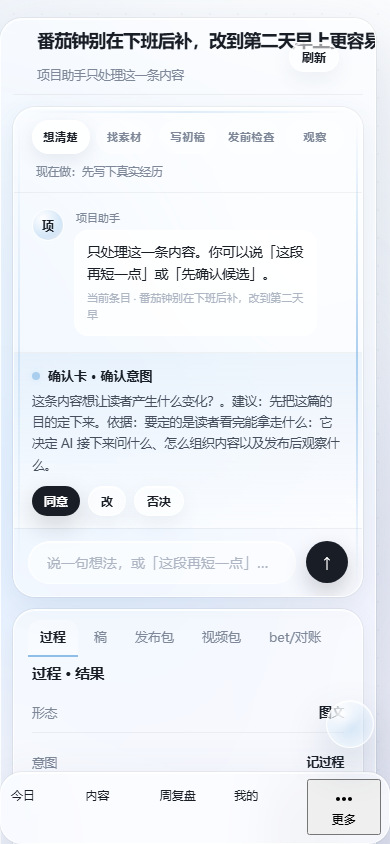
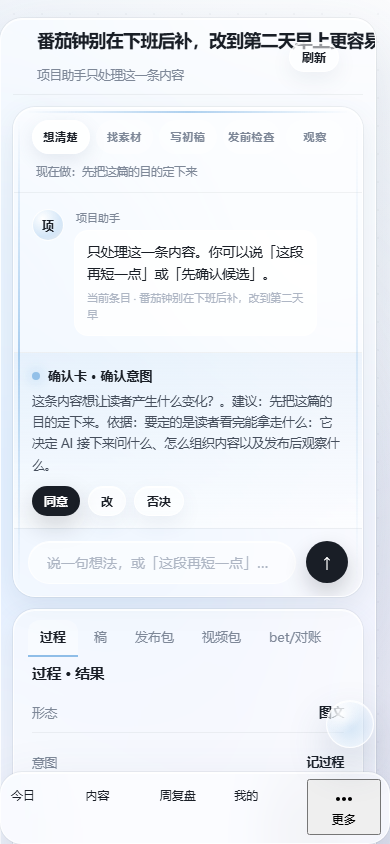
fix(content): show workspace action in project flow bar

Changed region(s): [[0.8923, 0.2773, 0.9231, 0.5545], [0.2462, 0.1848, 0.4923, 0.2156], [0.0308, 0.3081, 0.0615, 0.5237]]

diff --git a/frontend/src/features/content/ProjectFlowBar.tsx b/frontend/src/features/content/ProjectFlowBar.tsx
@@ -7,14 +7,20 @@ import type { ContentProject } from '@/types/contracts/v2/content';
 
 const projectStageLabels = ['想清楚', '找素材', '写初稿', '发前检查', '观察'] as const;
 
-export default function ProjectFlowBar({ project }: { project: ContentProject }) {
+export default function ProjectFlowBar({
+  project,
+  nowLabel,
+}: {
+  project: ContentProject;
+  nowLabel?: string;
+}) {
   const current = stageOf(project);
   return (
     <div
       className="stages project-flow-bar"
       data-testid="stage-meter"
       data-stage={current}
-      role="list"
+      role="group"
       aria-label="内容进度"
     >
       {projectStageLabels.map((label, index) => {
@@ -31,7 +37,7 @@ export default function ProjectFlowBar({ project }: { project: ContentProject })
           </span>
         );
       })}
-      <span className="stage-now">现在做：{nextActionLabel(project)}</span>
+      <span className="stage-now">现在做：{nowLabel || nextActionLabel(project)}</span>
     </div>
   );
 }

diff --git a/frontend/src/features/content/__tests__/ProjectStagePage.test.tsx b/frontend/src/features/content/__tests__/ProjectStagePage.test.tsx
@@ -145,8 +145,11 @@ describe('ProjectStagePage', () => {
     // 项目屏只保留一条人话阶段条；当前阶段「写初稿」（第 3 步）。
     expect(document.querySelectorAll('[aria-current="step"]')).toHaveLength(1);
     expect(screen.getByText('想清楚')).toBeInTheDocument();
+    expect(screen.getByText('找素材')).toBeInTheDocument();
+    expect(screen.getByText('写初稿')).toHaveAttribute('aria-current', 'step');
+    expect(screen.getByText('发前检查')).toBeInTheDocument();
     expect(screen.getByText('观察')).toBeInTheDocument();
-    expect(screen.getByText(/现在做：/)).toBeInTheDocument();
+    expect(screen.getByText('现在做：确认这条内容的意图')).toBeInTheDocument();
     expect(screen.getByRole('tab', { name: '过程' })).toHaveAttribute('aria-selected', 'true');
     expect(screen.getByText('踩坑复盘')).toBeInTheDocument();
     // 空对话时给出项目助手的第一句引导。

diff --git a/frontend/src/features/content/ProjectStagePage.tsx b/frontend/src/features/content/ProjectStagePage.tsx
@@ -291,7 +291,14 @@ export default function ProjectStagePage(props: {
           busy={busy}
           onSend={handleSend}
           projectName={project?.title}
-          stages={project ? <ProjectFlowBar project={project} /> : null}
+          stages={
+            project ? (
+              <ProjectFlowBar
+                project={project}
+                nowLabel={props.workspace?.orchestrated_action?.title}
+              />
+            ) : null
+          }
         />
         <ArtifactPane
           title={version?.title || project?.title || ''}

diff --git a/frontend/src/features/content/StageMeter.tsx b/frontend/src/features/content/StageMeter.tsx
@@ -27,7 +27,7 @@ function StepLabels({ project }: { project: ContentProject }) {
   );
 }
 
-/** 仅 .st 列表（外层 .stages 由 ProjectChat 提供） */
+/** 旧技术阶段条：仅 ProjectDetailPane 使用；项目屏已改用 ProjectFlowBar。 */
 export default function StageMeter({ project }: { project: ContentProject }) {
   return <StepLabels project={project} />;
 }

diff --git a/docs/reviews/ux-fix-item-03-project-stage-bar.md b/docs/reviews/ux-fix-item-03-project-stage-bar.md
@@ -44,12 +44,12 @@
 ## 5. 回滚
 
 - revert 本变更 commit；无数据/接口影响。
+
 ## 6. 证据
 
 - 目标测试：`ProjectStagePage.test.tsx` + `ArtifactPane.test.tsx` **32 tests passed**
 - 视觉（Playwright 本机）：
   - 1440×900、390×844 各 1 张；`[aria-current="step"]` **1 个**
   - 标签：想清楚 / 找素材 / 写初稿 / 发前检查 / 观察
-  - 「现在做：先写下真实经历」
+  - 「现在做：先把这篇的目的定下来」（优先取 workspace.orchestrated_action.title）
 - 文件：`ProjectFlowBar.tsx`、`ProjectStagePage.tsx`、`ProjectChat.tsx`、`ArtifactPane.tsx`、`ContentPage.css`
-- 回滚：revert 本变更；无数据/接口影响
